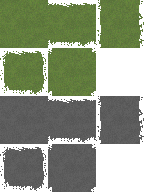
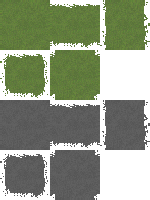
Fix tile border drawing

diff --git a/src/assets.rs b/src/assets.rs
@@ -178,11 +178,55 @@ fn create_assets_list(
     let biome_asset_list = biome_asset_list
         .get(&params_asset_collection.biomes)
         .unwrap();
+    let mut biome_texture_rects = HashMap::new();
+    for j in 0..4 {
+        for i in 0..3 {
+            let x = (TILE_SIZE + 2.0) * i as f32;
+            let y = (TILE_SIZE + 2.0) * j as f32;
+            let rect_size = Vec2::new(PIECE_SIZE, PIECE_SIZE);
+            biome_texture_rects.insert(
+                (i * 2, j * 2),
+                Rect::from_center_size(
+                    Vec2::new(x + 1.0 + PIECE_SIZE * 0.5, y + 1.0 + PIECE_SIZE * 0.5),
+                    rect_size,
+                ),
+            );
+            biome_texture_rects.insert(
+                (i * 2 + 1, j * 2),
+                Rect::from_center_size(
+                    Vec2::new(x + 1.0 + PIECE_SIZE * 1.5, y + 1.0 + PIECE_SIZE * 0.5),
+                    rect_size,
+                ),
+            );
+            biome_texture_rects.insert(
+                (i * 2, j * 2 + 1),
+                Rect::from_center_size(
+                    Vec2::new(x + 1.0 + PIECE_SIZE * 0.5, y + 1.0 + PIECE_SIZE * 1.5),
+                    rect_size,
+                ),
+            );
+            biome_texture_rects.insert(
+                (i * 2 + 1, j * 2 + 1),
+                Rect::from_center_size(
+                    Vec2::new(x + 1.0 + PIECE_SIZE * 1.5, y + 1.0 + PIECE_SIZE * 1.5),
+                    rect_size,
+                ),
+            );
+        }
+    }
+
     let biomes = Biome::iter()
         .map(|biome| {
             let image = biome_textures.get(biome);
-            let texture_atlas =
-                TextureAtlas::from_grid(image, Vec2::new(PIECE_SIZE, PIECE_SIZE), 6, 8, None, None);
+            let mut texture_atlas = TextureAtlas::new_empty(
+                image,
+                Vec2::new((TILE_SIZE + 2.0) * 3.0, (TILE_SIZE + 2.0) * 4.0),
+            );
+            for j in 0..8 {
+                for i in 0..6 {
+                    texture_atlas.add_texture(biome_texture_rects[&(i, j)]);
+                }
+            }
             (biome, texture_atlas_assets.add(texture_atlas))
         })
         .collect();

diff --git a/src/screen.rs b/src/screen.rs
@@ -512,9 +512,7 @@ fn window_resize(mut window: Query<&mut Window, With<PrimaryWindow>>) {
         };
 
     if window.width() != width as f32 || window.height() != height as f32 {
-        window
-            .resolution
-            .set(width - width % 2.0, height - height % 2.0);
+        window.resolution.set(width, height);
     }
 }
 
@@ -546,8 +544,7 @@ pub fn preferred_window_size() -> (u32, u32) {
     let width = width as u32;
     let height = height as u32;
 
-    // Workaround for drawing in web
-    (width - width % 2, height - height % 2)
+    (width, height)
 }
 
 #[cfg(not(target_arch = "wasm32"))]
